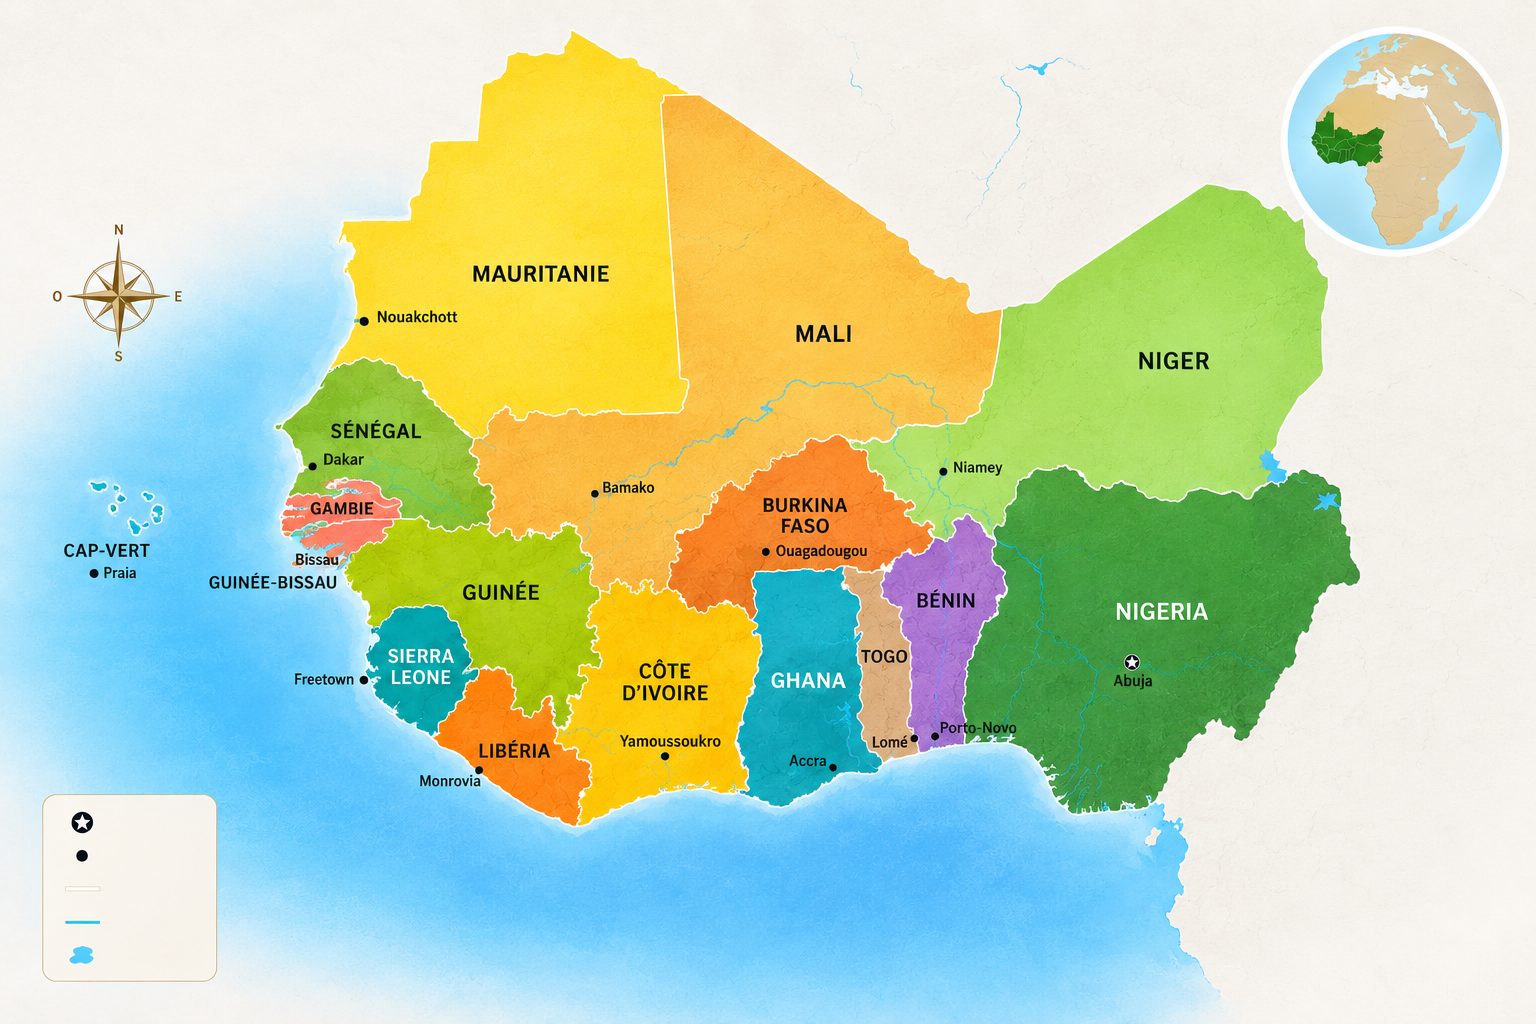
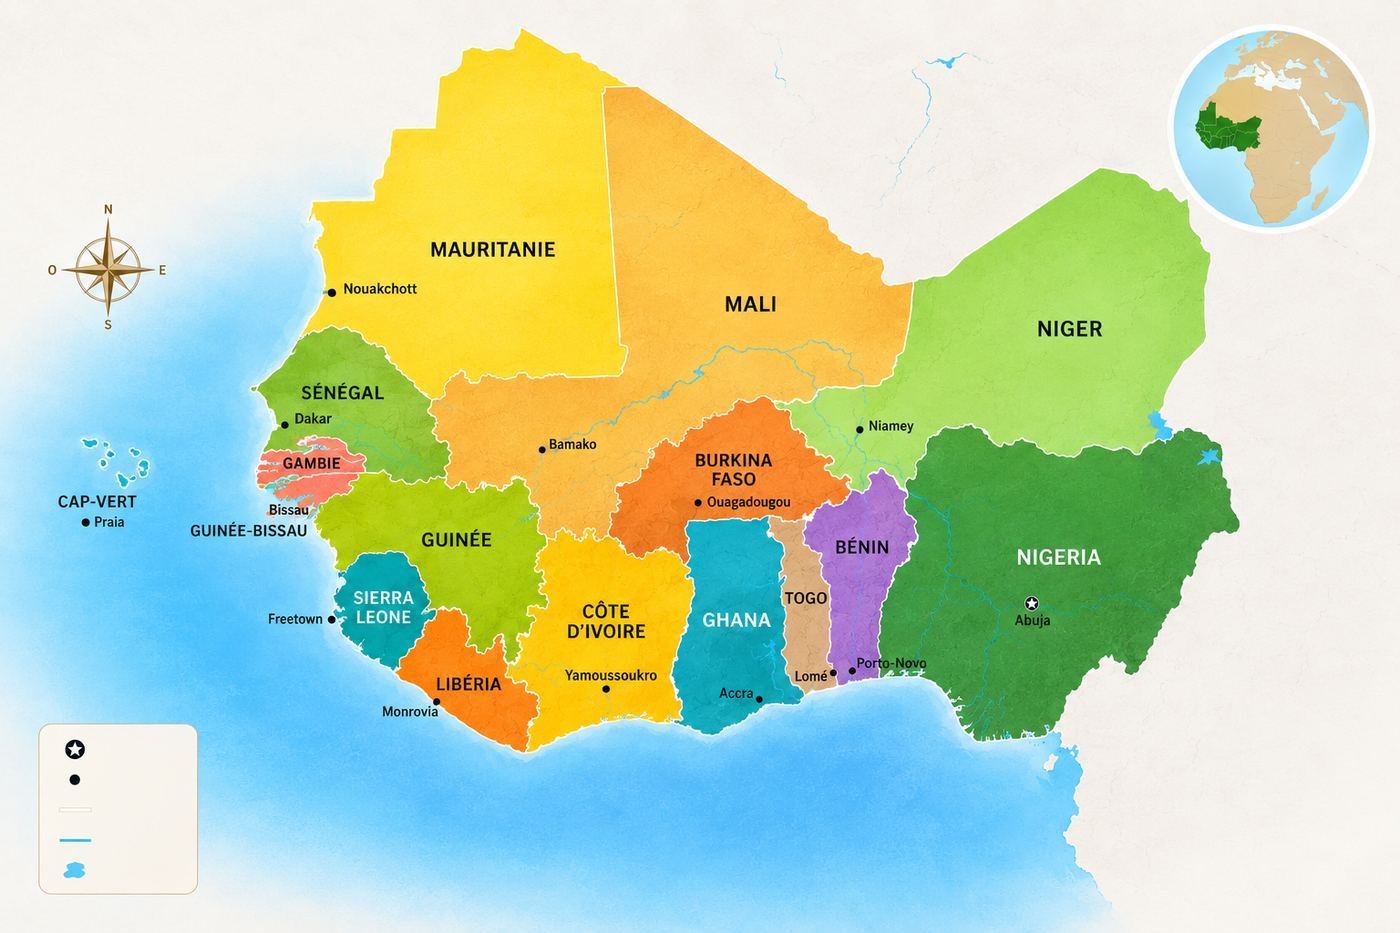
Add files via upload

diff --git a/actus-site-en-ligne.html b/actus-site-en-ligne.html
@@ -3,8 +3,8 @@
 <head>
 <meta charset="UTF-8">
 <meta name="viewport" content="width=device-width, initial-scale=1.0">
-<title>Contact &middot; Averon Technologies</title>
-<meta name="description" content="Contactez Averon Technologies à Ouagadougou pour un devis en mécanique, électricité, plomberie, énergie ou sécurité incendie. Téléphone, WhatsApp et formulaire de contact disponibles.">
+<title>Le nouveau site Averon Technologies est en ligne &middot; Averon Technologies</title>
+<meta name="description" content="Averon Technologies lance son nouveau site internet pour présenter ses services de mécanique, énergie, automatisme, sécurité incendie, vente et location d'">
 <link rel="icon" type="image/png" href="assets/favicon.png">
 <link rel="apple-touch-icon" href="assets/apple-touch-icon.png">
 <meta name="google-site-verification" content="O24dJcfC4azHuca2Fzly163X9Dh2YF9EkemCmM5X_G4" />
@@ -70,7 +70,7 @@
 <a class="" href="zones-intervention.html">Zones d'intervention</a>
 <a class="" href="actus.html">Actus</a>
 <a class="" href="pourquoi-nous-choisir.html">Pourquoi nous choisir</a>
-<a class="active" href="contact.html">Contact</a>
+<a class="" href="contact.html">Contact</a>
 
       <a class="cta" href="contact.html">Demander un devis</a>
     </nav>
@@ -98,53 +98,18 @@
   </div>
 </div>
 
-      <div class="kicker">Contact</div>
-      <h1>Parlons de votre projet</h1>
-      <p>Une question, un devis, une intervention urgente : contactez-nous directement.</p>
+      <div class="kicker">27 juillet 2026</div>
+      <h1>Le nouveau site Averon Technologies est en ligne</h1>
+      <p>Averon Technologies lance son nouveau site internet pour présenter ses services de mécanique, énergie, automatisme, sécurité incendie, vente et location d'engins, et études techniques.</p>
     </div>
   </div>
 </section>
 
-<section><div class="wrap">
-  <div class="contact-card">
-    <div class="contact-row"><svg viewBox="0 0 24 24" fill="none" stroke="currentColor" stroke-width="2"><path d="M22 16.92v3a2 2 0 0 1-2.18 2 19.79 19.79 0 0 1-8.63-3.07 19.5 19.5 0 0 1-6-6 19.79 19.79 0 0 1-3.07-8.67A2 2 0 0 1 4.11 2h3a2 2 0 0 1 2 1.72c.127.96.362 1.903.7 2.81a2 2 0 0 1-.45 2.11L8.09 9.91a16 16 0 0 0 6 6l1.27-1.27a2 2 0 0 1 2.11-.45c.907.338 1.85.573 2.81.7A2 2 0 0 1 22 16.92z"/></svg><div><span class="cc-label">Téléphone</span><span class="cc-value">+226 66603024 / +226 78190761</span></div></div>
-    <div class="contact-row"><svg viewBox="0 0 24 24" fill="none" stroke="currentColor" stroke-width="2"><path d="M21 10c0 7-9 13-9 13s-9-6-9-13a9 9 0 0 1 18 0z"/><circle cx="12" cy="10" r="3"/></svg><div><span class="cc-label">Localisation</span><span class="cc-value">Ouagadougou, Burkina Faso, interventions en Afrique de l'Ouest</span></div></div>
-    <div class="contact-row"><svg viewBox="0 0 24 24" fill="none" stroke="currentColor" stroke-width="2"><rect x="2" y="4" width="20" height="16" rx="2"/><path d="m22 6-10 7L2 6"/></svg><div><span class="cc-label">Email</span><span class="cc-value">averontechno@gmail.com</span></div></div>
-    <div class="contact-row"><svg viewBox="0 0 24 24" fill="none" stroke="currentColor" stroke-width="2"><circle cx="12" cy="12" r="10"/><path d="M2 12h20M12 2a15.3 15.3 0 0 1 4 10 15.3 15.3 0 0 1-4 10 15.3 15.3 0 0 1-4-10 15.3 15.3 0 0 1 4-10z"/></svg><div><span class="cc-label">Réseaux sociaux</span><span class="cc-value">Facebook et TikTok, Averon Technologies</span></div></div>
-  </div>
+<section><div class="wrap" style="max-width:760px;">
+  
+  <div class="actus-article-body"><p>Averon Technologies met en ligne son nouveau site internet, pensé pour présenter clairement l&#x27;ensemble de nos activités : mécanique industrielle, énergies fossiles et renouvelables, automatisme, sécurité incendie, vente et location d&#x27;engins mécaniques, et études techniques.</p><p>Cette page Actus nous permettra de partager régulièrement nos interventions, nos nouveaux partenariats et des informations utiles pour nos clients au Burkina Faso et en Afrique de l&#x27;Ouest.</p><p>N&#x27;hésitez pas à nous contacter pour toute question ou demande de devis.</p></div>
+  <p style="margin-top:32px;"><a class="footer-link" href="actus.html">&larr; Retour aux actualités</a></p>
 </div></section>
-
-<section class="alt">
-  <div class="wrap">
-    <div class="form-wrap">
-      <div class="form-badge">Demande de devis</div>
-      <h2>Décrivez votre besoin</h2>
-      <p class="lead">Envoyez-nous votre demande directement, ou continuez sur WhatsApp si vous préférez.</p>
-      <form class="form-card" action="https://formspree.io/f/mojgwpza" method="POST">
-        <label for="cf-name">Nom complet</label>
-        <div class="field-wrap">
-          <svg viewBox="0 0 24 24" fill="none" stroke="black" stroke-width="2"><circle cx="12" cy="8" r="4"/><path d="M4 21c0-4 4-6 8-6s8 2 8 6"/></svg>
-          <input type="text" id="cf-name" name="name" required placeholder="Votre nom">
-        </div>
-        <label for="cf-phone">Téléphone</label>
-        <div class="field-wrap">
-          <svg viewBox="0 0 24 24" fill="none" stroke="black" stroke-width="2"><path d="M22 16.92v3a2 2 0 0 1-2.18 2 19.79 19.79 0 0 1-8.63-3.07 19.5 19.5 0 0 1-6-6 19.79 19.79 0 0 1-3.07-8.67A2 2 0 0 1 4.11 2h3a2 2 0 0 1 2 1.72c.127.96.362 1.903.7 2.81a2 2 0 0 1-.45 2.11L8.09 9.91a16 16 0 0 0 6 6l1.27-1.27a2 2 0 0 1 2.11-.45c.907.338 1.85.573 2.81.7A2 2 0 0 1 22 16.92z"/></svg>
-          <input type="tel" id="cf-phone" name="phone" required placeholder="+226 XX XX XX XX">
-        </div>
-        <label for="cf-subject">Domaine concerné</label>
-        <div class="field-wrap">
-          <svg viewBox="0 0 24 24" fill="none" stroke="black" stroke-width="2"><rect x="3" y="7" width="18" height="13" rx="2"/><path d="M8 7V5a2 2 0 0 1 2-2h4a2 2 0 0 1 2 2v2"/></svg>
-          <input type="text" id="cf-subject" name="subject" placeholder="Mécanique, énergies, sécurité incendie...">
-        </div>
-        <label for="cf-message">Message</label>
-        <textarea id="cf-message" name="message" required placeholder="Décrivez votre besoin"></textarea>
-        <button type="submit">Envoyer la demande
-          <svg viewBox="0 0 24 24" fill="none" stroke="white" stroke-width="2" width="16" height="16"><path d="M5 12h14M13 5l7 7-7 7"/></svg>
-        </button>
-      </form>
-    </div>
-  </div>
-</section>
 
 <section class="contact-strip">
   <div class="wrap">

diff --git a/actus.html b/actus.html
@@ -3,8 +3,8 @@
 <head>
 <meta charset="UTF-8">
 <meta name="viewport" content="width=device-width, initial-scale=1.0">
-<title>Contact &middot; Averon Technologies</title>
-<meta name="description" content="Contactez Averon Technologies à Ouagadougou pour un devis en mécanique, électricité, plomberie, énergie ou sécurité incendie. Téléphone, WhatsApp et formulaire de contact disponibles.">
+<title>Actus &middot; Averon Technologies</title>
+<meta name="description" content="Actualités, interventions et informations utiles d'Averon Technologies au Burkina Faso et en Afrique de l'Ouest.">
 <link rel="icon" type="image/png" href="assets/favicon.png">
 <link rel="apple-touch-icon" href="assets/apple-touch-icon.png">
 <meta name="google-site-verification" content="O24dJcfC4azHuca2Fzly163X9Dh2YF9EkemCmM5X_G4" />
@@ -68,9 +68,9 @@
 <a class="" href="services.html">Nos Services</a>
 <a class="" href="certifications.html">Partenaires</a>
 <a class="" href="zones-intervention.html">Zones d'intervention</a>
-<a class="" href="actus.html">Actus</a>
+<a class="active" href="actus.html">Actus</a>
 <a class="" href="pourquoi-nous-choisir.html">Pourquoi nous choisir</a>
-<a class="active" href="contact.html">Contact</a>
+<a class="" href="contact.html">Contact</a>
 
       <a class="cta" href="contact.html">Demander un devis</a>
     </nav>
@@ -98,54 +98,22 @@
   </div>
 </div>
 
-      <div class="kicker">Contact</div>
-      <h1>Parlons de votre projet</h1>
-      <p>Une question, un devis, une intervention urgente : contactez-nous directement.</p>
+      <div class="kicker">Actus</div>
+      <h1>Nos actualités</h1>
+      <p>Interventions, nouveautés et informations utiles d'Averon Technologies.</p>
     </div>
   </div>
 </section>
-
-<section><div class="wrap">
-  <div class="contact-card">
-    <div class="contact-row"><svg viewBox="0 0 24 24" fill="none" stroke="currentColor" stroke-width="2"><path d="M22 16.92v3a2 2 0 0 1-2.18 2 19.79 19.79 0 0 1-8.63-3.07 19.5 19.5 0 0 1-6-6 19.79 19.79 0 0 1-3.07-8.67A2 2 0 0 1 4.11 2h3a2 2 0 0 1 2 1.72c.127.96.362 1.903.7 2.81a2 2 0 0 1-.45 2.11L8.09 9.91a16 16 0 0 0 6 6l1.27-1.27a2 2 0 0 1 2.11-.45c.907.338 1.85.573 2.81.7A2 2 0 0 1 22 16.92z"/></svg><div><span class="cc-label">Téléphone</span><span class="cc-value">+226 66603024 / +226 78190761</span></div></div>
-    <div class="contact-row"><svg viewBox="0 0 24 24" fill="none" stroke="currentColor" stroke-width="2"><path d="M21 10c0 7-9 13-9 13s-9-6-9-13a9 9 0 0 1 18 0z"/><circle cx="12" cy="10" r="3"/></svg><div><span class="cc-label">Localisation</span><span class="cc-value">Ouagadougou, Burkina Faso, interventions en Afrique de l'Ouest</span></div></div>
-    <div class="contact-row"><svg viewBox="0 0 24 24" fill="none" stroke="currentColor" stroke-width="2"><rect x="2" y="4" width="20" height="16" rx="2"/><path d="m22 6-10 7L2 6"/></svg><div><span class="cc-label">Email</span><span class="cc-value">averontechno@gmail.com</span></div></div>
-    <div class="contact-row"><svg viewBox="0 0 24 24" fill="none" stroke="currentColor" stroke-width="2"><circle cx="12" cy="12" r="10"/><path d="M2 12h20M12 2a15.3 15.3 0 0 1 4 10 15.3 15.3 0 0 1-4 10 15.3 15.3 0 0 1-4-10 15.3 15.3 0 0 1 4-10z"/></svg><div><span class="cc-label">Réseaux sociaux</span><span class="cc-value">Facebook et TikTok, Averon Technologies</span></div></div>
+<section><div class="wrap"><div class="actus-grid">
+<a class="actus-card scroll-reveal" href="actus-site-en-ligne.html">
+  <div class="actus-card-img"><div class="actus-card-noimg"></div></div>
+  <div class="actus-card-body">
+    <span class="actus-date">27 juillet 2026</span>
+    <h3>Le nouveau site Averon Technologies est en ligne</h3>
+    <p>Averon Technologies lance son nouveau site internet pour présenter ses services de mécanique, énergie, automatisme, sécurité incendie, vente et location d'engins, et études techniques.</p>
   </div>
-</div></section>
-
-<section class="alt">
-  <div class="wrap">
-    <div class="form-wrap">
-      <div class="form-badge">Demande de devis</div>
-      <h2>Décrivez votre besoin</h2>
-      <p class="lead">Envoyez-nous votre demande directement, ou continuez sur WhatsApp si vous préférez.</p>
-      <form class="form-card" action="https://formspree.io/f/mojgwpza" method="POST">
-        <label for="cf-name">Nom complet</label>
-        <div class="field-wrap">
-          <svg viewBox="0 0 24 24" fill="none" stroke="black" stroke-width="2"><circle cx="12" cy="8" r="4"/><path d="M4 21c0-4 4-6 8-6s8 2 8 6"/></svg>
-          <input type="text" id="cf-name" name="name" required placeholder="Votre nom">
-        </div>
-        <label for="cf-phone">Téléphone</label>
-        <div class="field-wrap">
-          <svg viewBox="0 0 24 24" fill="none" stroke="black" stroke-width="2"><path d="M22 16.92v3a2 2 0 0 1-2.18 2 19.79 19.79 0 0 1-8.63-3.07 19.5 19.5 0 0 1-6-6 19.79 19.79 0 0 1-3.07-8.67A2 2 0 0 1 4.11 2h3a2 2 0 0 1 2 1.72c.127.96.362 1.903.7 2.81a2 2 0 0 1-.45 2.11L8.09 9.91a16 16 0 0 0 6 6l1.27-1.27a2 2 0 0 1 2.11-.45c.907.338 1.85.573 2.81.7A2 2 0 0 1 22 16.92z"/></svg>
-          <input type="tel" id="cf-phone" name="phone" required placeholder="+226 XX XX XX XX">
-        </div>
-        <label for="cf-subject">Domaine concerné</label>
-        <div class="field-wrap">
-          <svg viewBox="0 0 24 24" fill="none" stroke="black" stroke-width="2"><rect x="3" y="7" width="18" height="13" rx="2"/><path d="M8 7V5a2 2 0 0 1 2-2h4a2 2 0 0 1 2 2v2"/></svg>
-          <input type="text" id="cf-subject" name="subject" placeholder="Mécanique, énergies, sécurité incendie...">
-        </div>
-        <label for="cf-message">Message</label>
-        <textarea id="cf-message" name="message" required placeholder="Décrivez votre besoin"></textarea>
-        <button type="submit">Envoyer la demande
-          <svg viewBox="0 0 24 24" fill="none" stroke="white" stroke-width="2" width="16" height="16"><path d="M5 12h14M13 5l7 7-7 7"/></svg>
-        </button>
-      </form>
-    </div>
-  </div>
-</section>
-
+</a>
+</div></div></section>
 <section class="contact-strip">
   <div class="wrap">
     <h2>Un projet en tête ? Parlons-en.</h2>

diff --git a/assets/style.css b/assets/style.css
@@ -25,7 +25,7 @@ header{ position:sticky; top:0; z-index:100; background:var(--black); border-bot
 .nav .logo{ display:flex; align-items:center; gap:8px; z-index:2; }
 .nav .logo img{ height:56px; width:auto; }
 .nav .actions{ display:flex; align-items:center; gap:10px; z-index:2; }
-.nav .call{ width:38px; height:38px; border-radius:50%; background:linear-gradient(135deg,var(--cyan),var(--magenta)); display:flex; align-items:center; justify-content:center; animation:phoneRing 4s ease-in-out infinite; }
+.nav .call{ width:44px; height:44px; border-radius:50%; background:linear-gradient(135deg,var(--cyan),var(--magenta)); display:flex; align-items:center; justify-content:center; animation:phoneRing 4s ease-in-out infinite; }
 @keyframes phoneRing{
   0%, 92%, 100%{ transform:rotate(0deg); }
   93%{ transform:rotate(-14deg); }
@@ -37,7 +37,7 @@ header{ position:sticky; top:0; z-index:100; background:var(--black); border-bot
   99%{ transform:rotate(0deg); }
 }
 .nav .call svg{ width:18px; height:18px; }
-.burger{ width:38px; height:38px; border:1px solid #33353D; border-radius:6px; display:flex; flex-direction:column; align-items:center; justify-content:center; gap:4px; background:none; }
+.burger{ width:44px; height:44px; border:1px solid #33353D; border-radius:6px; display:flex; flex-direction:column; align-items:center; justify-content:center; gap:4px; background:none; }
 .burger span{ width:16px; height:2px; background:#fff; display:block; }
 
 .menu{ display:none; flex-direction:column; background:var(--black); border-top:1px solid #24252B; padding:8px 18px 20px; position:absolute; top:100%; left:0; right:0; }
@@ -216,8 +216,8 @@ section.dark .point p{ color:var(--grey); }
 .form-card label:first-child{ margin-top:0; }
 .field-wrap{ position:relative; }
 .field-wrap svg{ position:absolute; left:16px; top:50%; transform:translateY(-50%); width:16px; height:16px; opacity:0.5; }
-.form-card input{ width:100%; padding:13px 16px 13px 42px; border:1px solid #E0E1E6; border-radius:999px; font-family:'Inter'; font-size:0.92rem; color:var(--black); background:var(--white); }
-.form-card textarea{ width:100%; padding:14px 16px; border:1px solid #E0E1E6; border-radius:18px; font-family:'Inter'; font-size:0.92rem; color:var(--black); background:var(--white); resize:vertical; min-height:110px; }
+.form-card input{ width:100%; padding:13px 16px 13px 42px; border:1px solid #E0E1E6; border-radius:999px; font-family:'Inter'; font-size:1rem; color:var(--black); background:var(--white); }
+.form-card textarea{ width:100%; padding:14px 16px; border:1px solid #E0E1E6; border-radius:18px; font-family:'Inter'; font-size:1rem; color:var(--black); background:var(--white); resize:vertical; min-height:110px; }
 .form-card input:focus, .form-card textarea:focus{ outline:none; border-color:var(--cyan); }
 .form-card button{
   margin-top:22px; width:100%; border:none; padding:15px; border-radius:999px;
@@ -366,8 +366,26 @@ footer{ background:var(--black); color:var(--grey); padding:28px 20px 80px; disp
 }
 .brand-card img{ max-width:100%; max-height:56px; object-fit:contain; filter:grayscale(1); opacity:0.7; transition:filter 0.25s, opacity 0.25s; }
 .brand-card:hover img{ filter:grayscale(0); opacity:1; }
-.brand-card-text{ font-family:"Archivo Black", var(--font-title, sans-serif); font-size:1.05rem; letter-spacing:0.02em; color:var(--grey-dark, #555); text-align:center; opacity:0.75; transition:opacity 0.25s, color 0.25s; }
-.brand-card-text:hover{ opacity:1; color:var(--navy, #1A2E4A); }
+.brand-card-text{ font-family:'Archivo Black', sans-serif; font-size:1.05rem; letter-spacing:0.02em; color:var(--grey-dark); text-align:center; opacity:0.75; transition:opacity 0.25s, color 0.25s; }
+.brand-card-text:hover{ opacity:1; color:var(--blue-deep); }
+
+/* ACTUS */
+.actus-grid{ display:grid; grid-template-columns:1fr; gap:24px; }
+@media(min-width:640px){ .actus-grid{ grid-template-columns:repeat(2,1fr); } }
+@media(min-width:960px){ .actus-grid{ grid-template-columns:repeat(3,1fr); } }
+.actus-card{
+  display:flex; flex-direction:column; background:var(--white); border:1px solid #EAEBEF; border-radius:8px;
+  overflow:hidden; text-decoration:none; color:inherit; transition:transform 0.2s, box-shadow 0.2s;
+}
+.actus-card:hover{ transform:translateY(-3px); box-shadow:0 8px 24px rgba(0,0,0,0.08); }
+.actus-card-img{ aspect-ratio:16/9; background:linear-gradient(135deg,var(--cyan),var(--magenta)); overflow:hidden; }
+.actus-card-img img{ width:100%; height:100%; object-fit:cover; }
+.actus-card-noimg{ width:100%; height:100%; }
+.actus-card-body{ padding:20px; }
+.actus-date{ font-family:'JetBrains Mono'; font-size:0.72rem; letter-spacing:0.05em; text-transform:uppercase; color:var(--cyan); }
+.actus-card-body h3{ font-family:'Archivo Black'; font-size:1.05rem; margin:8px 0 8px; }
+.actus-card-body p{ color:var(--grey-dark); font-size:0.9rem; }
+.actus-article-body p{ color:var(--grey-dark); font-size:1rem; line-height:1.7; margin-bottom:18px; }
 @media(min-width:600px){ .brands-grid{ grid-template-columns:repeat(3,1fr); } }
 @media(min-width:900px){ .brands-grid{ grid-template-columns:repeat(4,1fr); } }
 

diff --git a/certifications.html b/certifications.html
@@ -68,6 +68,7 @@
 <a class="" href="services.html">Nos Services</a>
 <a class="active" href="certifications.html">Partenaires</a>
 <a class="" href="zones-intervention.html">Zones d'intervention</a>
+<a class="" href="actus.html">Actus</a>
 <a class="" href="pourquoi-nous-choisir.html">Pourquoi nous choisir</a>
 <a class="" href="contact.html">Contact</a>
 

diff --git a/pourquoi-nous-choisir.html b/pourquoi-nous-choisir.html
@@ -68,6 +68,7 @@
 <a class="" href="services.html">Nos Services</a>
 <a class="" href="certifications.html">Partenaires</a>
 <a class="" href="zones-intervention.html">Zones d'intervention</a>
+<a class="" href="actus.html">Actus</a>
 <a class="active" href="pourquoi-nous-choisir.html">Pourquoi nous choisir</a>
 <a class="" href="contact.html">Contact</a>
 

diff --git a/services.html b/services.html
@@ -68,6 +68,7 @@
 <a class="active" href="services.html">Nos Services</a>
 <a class="" href="certifications.html">Partenaires</a>
 <a class="" href="zones-intervention.html">Zones d'intervention</a>
+<a class="" href="actus.html">Actus</a>
 <a class="" href="pourquoi-nous-choisir.html">Pourquoi nous choisir</a>
 <a class="" href="contact.html">Contact</a>
 

diff --git a/zones-intervention.html b/zones-intervention.html
@@ -68,6 +68,7 @@
 <a class="" href="services.html">Nos Services</a>
 <a class="" href="certifications.html">Partenaires</a>
 <a class="active" href="zones-intervention.html">Zones d'intervention</a>
+<a class="" href="actus.html">Actus</a>
 <a class="" href="pourquoi-nous-choisir.html">Pourquoi nous choisir</a>
 <a class="" href="contact.html">Contact</a>
 

diff --git a/404.html b/404.html
@@ -68,6 +68,7 @@
 <a class="" href="services.html">Nos Services</a>
 <a class="" href="certifications.html">Partenaires</a>
 <a class="" href="zones-intervention.html">Zones d'intervention</a>
+<a class="" href="actus.html">Actus</a>
 <a class="" href="pourquoi-nous-choisir.html">Pourquoi nous choisir</a>
 <a class="" href="contact.html">Contact</a>
 

diff --git a/a-propos.html b/a-propos.html
@@ -68,6 +68,7 @@
 <a class="" href="services.html">Nos Services</a>
 <a class="" href="certifications.html">Partenaires</a>
 <a class="" href="zones-intervention.html">Zones d'intervention</a>
+<a class="" href="actus.html">Actus</a>
 <a class="" href="pourquoi-nous-choisir.html">Pourquoi nous choisir</a>
 <a class="" href="contact.html">Contact</a>
 

diff --git a/faq.html b/faq.html
@@ -68,6 +68,7 @@
 <a class="" href="services.html">Nos Services</a>
 <a class="" href="certifications.html">Partenaires</a>
 <a class="" href="zones-intervention.html">Zones d'intervention</a>
+<a class="" href="actus.html">Actus</a>
 <a class="" href="pourquoi-nous-choisir.html">Pourquoi nous choisir</a>
 <a class="" href="contact.html">Contact</a>
 

diff --git a/galerie.html b/galerie.html
@@ -68,6 +68,7 @@
 <a class="" href="services.html">Nos Services</a>
 <a class="" href="certifications.html">Partenaires</a>
 <a class="" href="zones-intervention.html">Zones d'intervention</a>
+<a class="" href="actus.html">Actus</a>
 <a class="" href="pourquoi-nous-choisir.html">Pourquoi nous choisir</a>
 <a class="" href="contact.html">Contact</a>
 

diff --git a/index.html b/index.html
@@ -68,6 +68,7 @@
 <a class="" href="services.html">Nos Services</a>
 <a class="" href="certifications.html">Partenaires</a>
 <a class="" href="zones-intervention.html">Zones d'intervention</a>
+<a class="" href="actus.html">Actus</a>
 <a class="" href="pourquoi-nous-choisir.html">Pourquoi nous choisir</a>
 <a class="" href="contact.html">Contact</a>
 
